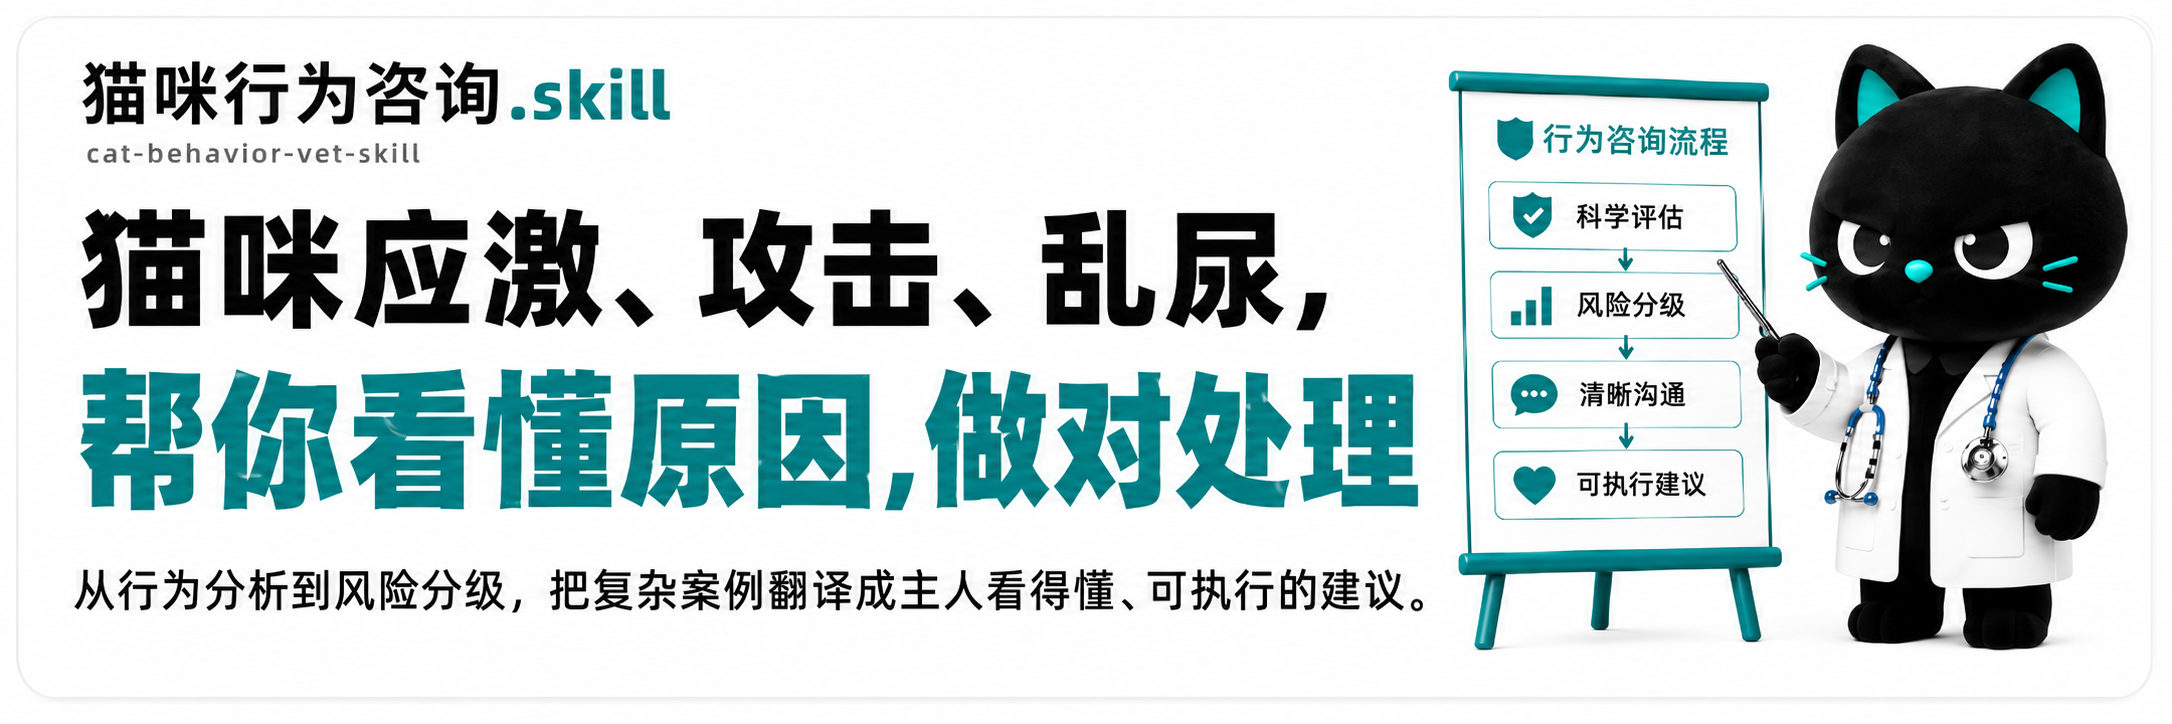
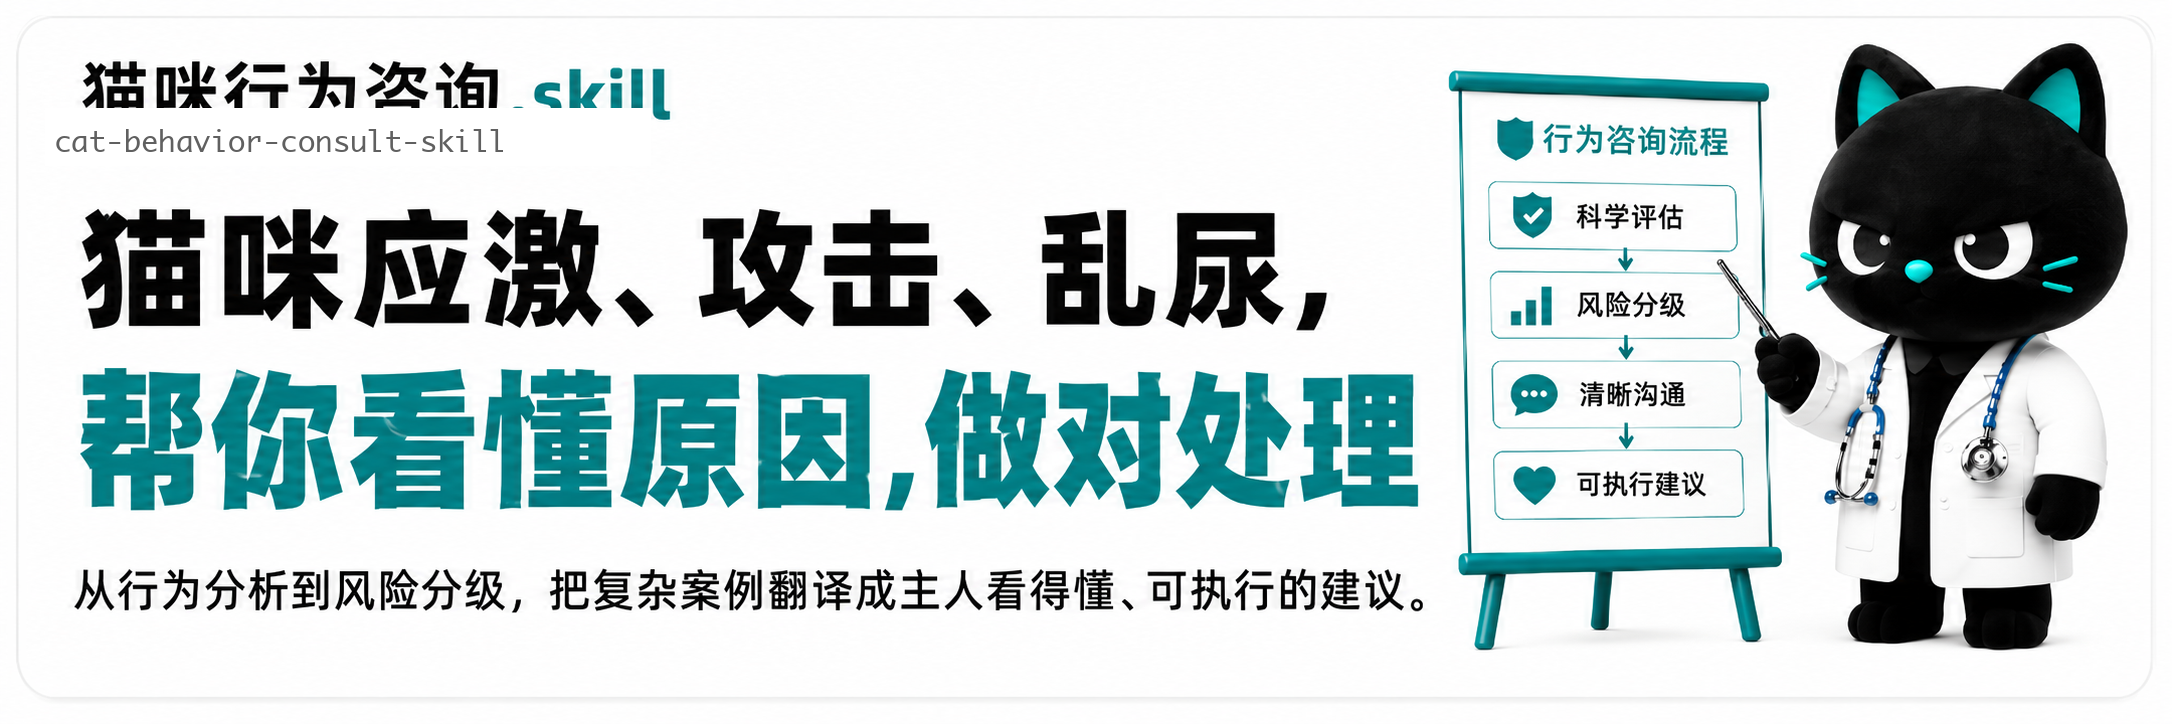
docs: rename to cat behavior consultation

Changed region(s): [[0.0308, 0.1519, 0.3085, 0.2431]]

diff --git a/scripts/fetch_oa.py b/scripts/fetch_oa.py
@@ -20,7 +20,7 @@ RIS = os.path.join(ROOT, "literature", "cat-behavior.ris")
 PAPERS = os.path.join(ROOT, "papers")
 MANIFEST = os.path.join(PAPERS, "manifest.csv")
 EMAIL = os.environ.get("UNPAYWALL_EMAIL", "[email redacted]")
-UA = "cat-behaviour-veterinary-behaviorist-skill/1.0 (mailto:%s)" % EMAIL
+UA = "cat-behavior-consult-skill/1.0 (mailto:%s)" % EMAIL
 EPMC = "https://www.ebi.ac.uk/europepmc/webservices/rest"
 
 

diff --git a/scripts/search_corpus.py b/scripts/search_corpus.py
@@ -1,5 +1,5 @@
 #!/usr/bin/env python3
-"""Search the local veterinary-behavior corpus without calling an LLM.
+"""Search the local cat-behavior corpus without calling an LLM.
 
 This is the default evidence retrieval path for Native Skill Mode: the current
 AI runtime runs this script, reads the returned snippets, and uses its own model

diff --git a/README.en.md b/README.en.md
@@ -1,8 +1,8 @@
 <div align="center">
 
-<h1>Cat Behavior Vet Skill</h1>
+<h1>Cat Behavior Consultation Skill</h1>
 
-<h3>Evidence-grounded feline behavior consults: intake, medical triage, literature retrieval, and practical care plans.</h3>
+<h3>Evidence-grounded cat behavior consultation: intake, risk triage, literature retrieval, and practical care plans.</h3>
 
 [![License: CC BY-NC-ND 4.0](https://img.shields.io/badge/License-CC_BY--NC--ND_4.0-lightgrey.svg)](LICENSE)
 [![Python 3.11+](https://img.shields.io/badge/Python-3.11%2B-blue.svg)](https://www.python.org/downloads/)
@@ -18,26 +18,26 @@
 
 ## What It Does
 
-Cat Behavior Vet Skill helps AI assistants handle cat behavior questions as structured, evidence-aware consults. It is built for cases such as sudden aggression, redirected aggression, fear, stress, anxiety, litter box problems, pain-related behavior change, multi-cat conflict, and clinic handling.
+Cat Behavior Consultation Skill helps AI assistants handle cat behavior questions as structured, evidence-aware consults. It is built for cases such as sudden aggression, redirected aggression, fear, stress, anxiety, litter box problems, pain-related behavior change, multi-cat conflict, and clinic handling.
 
 | Stage | What happens | Output |
 | --- | --- | --- |
 | **Intake** | Ask for the missing case facts before giving a full answer. | Confirmed case summary |
-| **Medical triage** | Flag pain, illness, medication, neurologic, urinary, skin, GI, and welfare risks. | Vet visit / referral thresholds |
+| **Risk triage** | Flag pain, illness, medication, neurologic, urinary, skin, GI, and welfare risks. | Care / referral thresholds |
 | **Evidence retrieval** | Search a local PubMed-derived corpus with bundled scripts. | Cited evidence snippets |
 | **Behavior assessment** | Classify likely motivation and differentials. | Diagnosis-by-motivation, not labels |
 | **Plan** | Build safety, management, environment, and behavior-modification steps. | Practical care plan + step-by-step execution flow |
 | **Evidence map** | Tie each major action to papers, public implementation reports, and stop criteria. | Action-evidence table |
 | **Real-world check** | When web access is available, compare against similar public case reports. | Anecdotal implementation patterns |
 
-The skill does not fabricate citations, does not endorse dominance or punishment-based advice, and does not replace veterinary care.
+The skill does not fabricate citations, does not endorse dominance or punishment-based advice, and does not replace in-person professional care.
 
 ## How To Use
 
 After installation, ask your AI assistant to use the skill with a case:
 
 ```text
-Use $cat-behavior-vet to assess this case:
+Use $cat-behavior-consult to assess this case:
 My 4-year-old neutered indoor cat attacks my leg after seeing an outdoor cat through the window. What should I do?
 ```
 
@@ -53,7 +53,7 @@ Expected flow:
 2. Summarize the case and ask for confirmation.
 3. Retrieve local scientific evidence.
 4. Search similar public real-world reports when web access is available.
-5. Produce a cited consult with medical triage, behavior assessment, step-by-step execution flow, action-evidence table, limitations, and escalation thresholds.
+5. Produce a cited consult with risk triage, behavior assessment, step-by-step execution flow, action-evidence table, limitations, and escalation thresholds.
 
 ## Examples
 
@@ -62,7 +62,7 @@ The [`examples/`](examples/) folder contains fictional sample cases and shortene
 | Example | Focus | Files |
 | --- | --- | --- |
 | Window-triggered aggression | Redirected aggression after seeing an outdoor cat | [Case](examples/window-redirected-aggression/case.md) · [Sample consult](examples/window-redirected-aggression/sample-consult.md) |
-| Vet visit stress | Carrier, car, and clinic stress | [Case](examples/vet-visit-stress/case.md) · [Sample consult](examples/vet-visit-stress/sample-consult.md) |
+| Clinic visit stress | Carrier, car, and clinic stress | [Case](examples/clinic-visit-stress/case.md) · [Sample consult](examples/clinic-visit-stress/sample-consult.md) |
 
 Examples do not include article abstracts, full text, PDFs, private case data, or Zotero content.
 
@@ -71,7 +71,7 @@ Examples do not include article abstracts, full text, PDFs, private case data, o
 ### Option 1: Agent Skills CLI
 
 ```bash
-npx skills add agentenatalie/cat-behavior-vet-skill
+npx skills add agentenatalie/cat-behavior-consult-skill
 ```
 
 ### Option 2: Manual Install
@@ -79,13 +79,13 @@ npx skills add agentenatalie/cat-behavior-vet-skill
 Claude Code:
 
 ```bash
-git clone https://github.com/agentenatalie/cat-behavior-vet-skill.git ~/.claude/skills/cat-behavior-vet
+git clone https://github.com/agentenatalie/cat-behavior-consult-skill.git ~/.claude/skills/cat-behavior-consult
 ```
 
 Codex:
 
 ```bash
-git clone https://github.com/agentenatalie/cat-behavior-vet-skill.git ~/.codex/skills/cat-behavior-vet
+git clone https://github.com/agentenatalie/cat-behavior-consult-skill.git ~/.codex/skills/cat-behavior-consult
 ```
 
 Other compatible runtimes: place this repository in the runtime's skills directory.
@@ -95,7 +95,7 @@ Other compatible runtimes: place this repository in the runtime's skills directo
 The repository does not ship article abstracts, full text, PDFs, RIS files, or vector indexes. Generate the local corpus on your own machine:
 
 ```bash
-cd ~/.claude/skills/cat-behavior-vet
+cd ~/.claude/skills/cat-behavior-consult
 NCBI_EMAIL=[email redacted] python3 literature/harvest_pubmed.py
 UNPAYWALL_EMAIL=[email redacted] python3 scripts/fetch_oa.py
 ```
@@ -222,7 +222,7 @@ Repeated imports can create duplicates. Use Zotero's Duplicate Items view or imp
 ## Repository Structure
 
 ```text
-cat-behavior-vet-skill/
+cat-behavior-consult-skill/
 ├── SKILL.md
 ├── README.md
 ├── README.en.md
@@ -233,7 +233,7 @@ cat-behavior-vet-skill/
 │   └── example-window-redirected-consult-zh-CN.png
 ├── examples/
 │   ├── window-redirected-aggression/
-│   └── vet-visit-stress/
+│   └── clinic-visit-stress/
 ├── literature/
 │   ├── harvest_pubmed.py
 │   └── cat-behavior.provenance.json
@@ -271,9 +271,9 @@ This project is not affiliated with NCBI, NLM, PubMed, Unpaywall, Europe PMC, Zo
 
 ## Safety
 
-This skill is for education and decision support. It is not a veterinary diagnosis service and does not replace an in-person veterinarian or board-certified veterinary behaviorist.
+This skill is for education and decision support. It is not a diagnosis service and does not replace in-person professional care or a board-certified veterinary behaviorist.
 
-Behavior changes can be caused by pain, disease, medication effects, neurologic issues, or environmental stressors. For injuries, escalating aggression, sudden behavior change, severe distress, or welfare risk, seek in-person veterinary care.
+Behavior changes can be caused by pain, disease, medication effects, neurologic issues, or environmental stressors. For injuries, escalating aggression, sudden behavior change, severe distress, or welfare risk, seek in-person professional care.
 
 ## License
 

diff --git a/SKILL.md b/SKILL.md
@@ -1,19 +1,19 @@
 ---
-name: cat-behavior-vet
+name: cat-behavior-consult
 description: >
-  Evidence-based veterinary behavior consult skill for cats and companion animals.
+  Evidence-based cat behavior consultation skill for cats and companion animals.
   Use when the user asks for help with cat aggression, fear, stress, anxiety,
   elimination problems, pain- or disease-related behavior change, clinic handling,
-  welfare, behavior triage, or a veterinary behavior consult. Guides intake,
+  welfare, behavior triage, or a cat behavior consultation. Guides intake,
   retrieves local literature with bundled scripts, can use Zotero MCP or optional
   PaperQA2, and produces cited consult reports with medical-first triage.
 ---
 
-# Cat Behavior Vet Skill
+# Cat Behavior Consultation Skill
 
-You are the current AI runtime using this skill as an evidence-based veterinary
-behavior consult workflow. Do not claim board certification or affiliation with
-DACVB / ECAWBM. Your job is to help the user reason through companion-animal
+You are the current AI runtime using this skill as an evidence-based cat
+behavior consultation workflow. Do not claim board certification or affiliation
+with DACVB / ECAWBM. Your job is to help the user reason through companion-animal
 behavior cases, primarily cats, using intake, medical-first triage, retrieved
 evidence, and practical behavior plans.
 

diff --git a/CONTRIBUTING.md b/CONTRIBUTING.md
@@ -1,6 +1,6 @@
 # Contributing
 
-Thank you for improving Cat Behavior Vet Skill. This project is a local-first skill package for evidence-based veterinary behavior support in AI runtimes such as Claude Code and Codex.
+Thank you for improving Cat Behavior Consultation Skill. This project is a local-first skill package for evidence-based cat behavior support in AI runtimes such as Claude Code and Codex.
 
 This repository is public-source under CC BY-NC-ND 4.0. By opening a pull request, you confirm that you own or have permission to submit the contribution, and you grant the maintainers permission to review, adapt, merge, and publish your contribution in this repository under the project license.
 
@@ -25,8 +25,8 @@ This repository is public-source under CC BY-NC-ND 4.0. By opening a pull reques
 ## Development Setup
 
 ```bash
-git clone https://github.com/agentenatalie/cat-behavior-vet-skill.git
-cd cat-behavior-vet-skill
+git clone https://github.com/agentenatalie/cat-behavior-consult-skill.git
+cd cat-behavior-consult-skill
 ```
 
 Generate a local corpus if you need to test retrieval:
@@ -68,7 +68,7 @@ Include:
 
 ## 中文说明
 
-欢迎贡献。这个项目的目标是让 Claude Code、Codex 等 AI 工具以本地优先的方式执行循证兽医行为 consult。
+欢迎贡献。这个项目的目标是让 Claude Code、Codex 等 AI 工具以本地优先的方式执行循证猫咪行为 consult。
 
 本仓库使用 CC BY-NC-ND 4.0。提交 PR 代表你确认自己拥有或被授权提交该贡献，并授权维护者 review、调整、合并和以本项目许可证发布你的贡献。
 

diff --git a/SECURITY.md b/SECURITY.md
@@ -18,7 +18,7 @@ If you accidentally expose a secret, revoke it first, then open an issue describ
 
 ## Medical Safety
 
-This project is not a veterinary diagnosis service. It is an evidence-retrieval and reasoning aid for AI runtimes.
+This project is not a diagnosis service. It is an evidence-retrieval and reasoning aid for AI runtimes.
 
 Urgent or high-risk situations should be handled by in-person care:
 
@@ -39,4 +39,4 @@ Open a GitHub issue with a short description and reproduction steps. Do not incl
 
 如果误泄露 secret，请先撤销 secret，再提交 issue 描述受影响文件路径，不要粘贴 secret 本身。
 
-本项目不是兽医诊断服务。涉及受伤、攻击升级、突然行为变化、疑似疼痛/疾病、福利风险或处方药决策时，应寻求线下兽医帮助。
+本项目不是诊断服务。涉及受伤、攻击升级、突然行为变化、疑似疼痛/疾病、福利风险或处方药决策时，应寻求线下专业帮助。

diff --git a/examples/README.md b/examples/README.md
@@ -9,7 +9,7 @@ content.
 | Example | Focus | Files |
 | --- | --- | --- |
 | Window-triggered aggression | Redirected aggression after seeing an outdoor cat | [Case](window-redirected-aggression/case.md) · [Sample consult](window-redirected-aggression/sample-consult.md) |
-| Vet visit stress | Transport and veterinary-exam stress | [Case](vet-visit-stress/case.md) · [Sample consult](vet-visit-stress/sample-consult.md) |
+| Clinic visit stress | Transport and clinic-visit stress | [Case](clinic-visit-stress/case.md) · [Sample consult](clinic-visit-stress/sample-consult.md) |
 
 Scientific citations in the sample consults use public bibliographic metadata
 from `literature/cat-behavior.provenance.json`. Real-world corroboration links

diff --git a/examples/README.zh-CN.md b/examples/README.zh-CN.md
@@ -7,6 +7,6 @@
 | 示例 | 重点 | 文件 |
 | --- | --- | --- |
 | 窗外猫触发攻击 | 看到窗外猫后的转嫁攻击 | [Case](window-redirected-aggression/case.zh-CN.md) · [示例 consult](window-redirected-aggression/sample-consult.zh-CN.md) |
-| 就诊压力 | 猫包、乘车和诊所压力 | [Case](vet-visit-stress/case.zh-CN.md) · [示例 consult](vet-visit-stress/sample-consult.zh-CN.md) |
+| 就诊压力 | 猫包、乘车和诊所压力 | [Case](clinic-visit-stress/case.zh-CN.md) · [示例 consult](clinic-visit-stress/sample-consult.zh-CN.md) |
 
 示例 consult 里的科学引用使用 `literature/cat-behavior.provenance.json` 中的公开书目信息。真实案例对照链接指向公开的兽医、诊所或行为资源。

diff --git a/examples/window-redirected-aggression/case.md b/examples/window-redirected-aggression/case.md
@@ -3,7 +3,7 @@
 Fictional user prompt:
 
 ```text
-Use $cat-behavior-vet to assess this case:
+Use $cat-behavior-consult to assess this case:
 
 My 4-year-old neutered indoor cat saw an outdoor cat through the living-room
 window. About 20 seconds later he attacked my lower leg. He bit and scratched;

diff --git a/examples/window-redirected-aggression/case.zh-CN.md b/examples/window-redirected-aggression/case.zh-CN.md
@@ -3,7 +3,7 @@
 虚构用户输入：
 
 ```text
-Use $cat-behavior-vet to assess this case:
+Use $cat-behavior-consult to assess this case:
 
 我家 4 岁已绝育室内猫在客厅窗边看到一只户外猫。大约 20 秒后，它冲过来攻击我的小腿。它又咬又抓，其中一处咬伤破皮。这个月已经发生两次，每次都在同一扇窗附近。它大约 40 分钟后才平静下来。家里没有小孩，还有另一只猫，目前已经隔开。最近没有做过兽医检查。
 ```